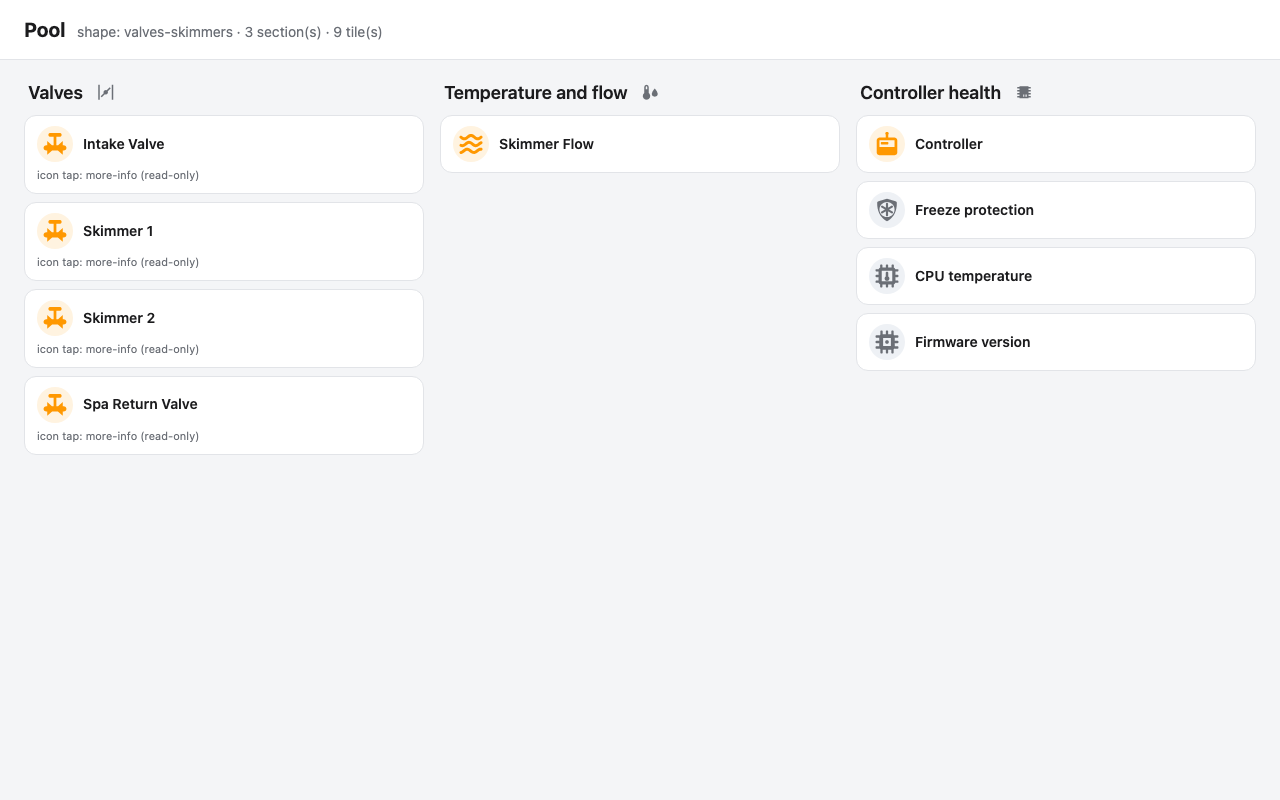
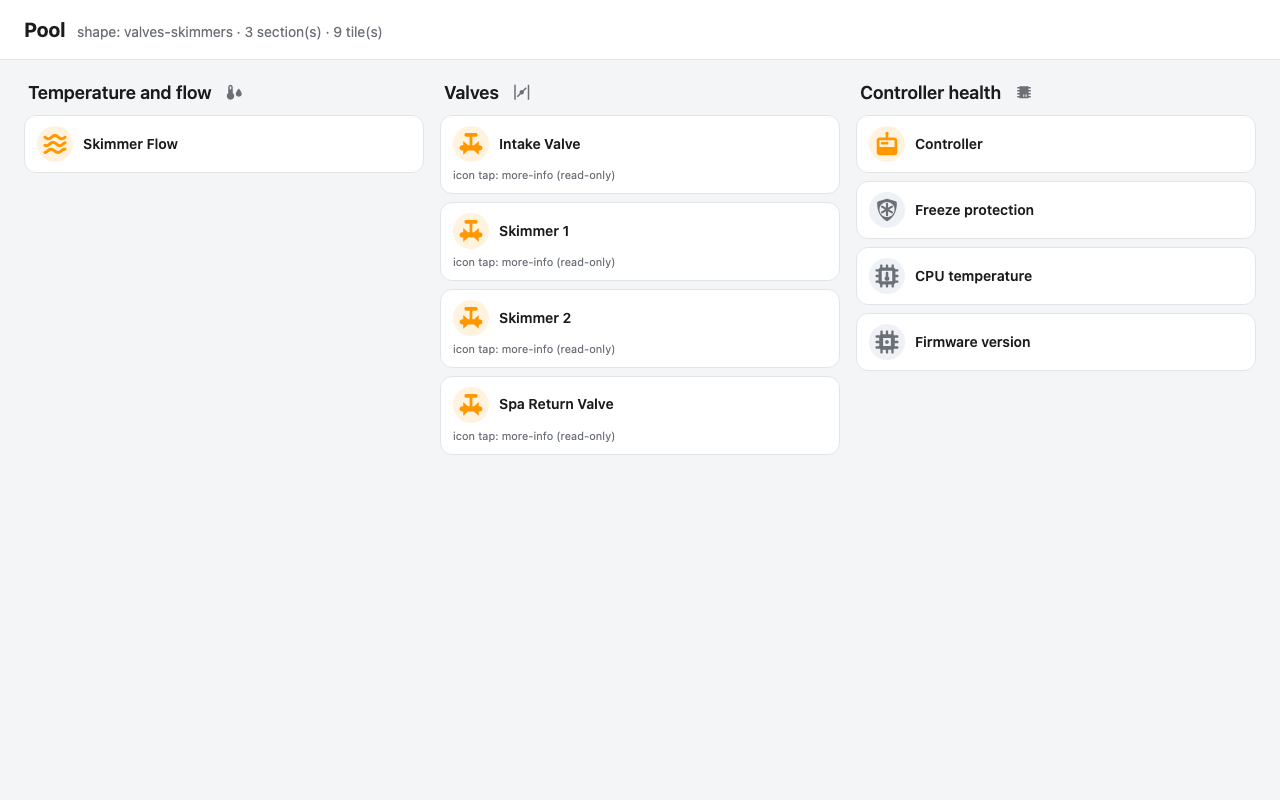
Layout: the pool's lights under the pool pump, water readings right of the pool
- poolLights(): the lights bound to the picture (pool, spa, falls) move out of
  the lights section and sit under the pool pump, full width, with their colour
  bars; only when a pool pump with a speed slider is there to sit under, so a
  lighting-only panel keeps all its lights (test).
- DEFAULT_ORDER puts "Temperature and flow" second, right of the pool;
  controls: core keeps the 0.2.1 order and layout (tests, snapshots unchanged).
- Docs, changelog, dashboard images.

diff --git a/custom_components/controlfreak/frontend/controlfreak-strategy.js b/custom_components/controlfreak/frontend/controlfreak-strategy.js
@@ -15,7 +15,7 @@
  *         picture_shape: kidney        # the overview's outline (default freeform)
  *         picture_style: depth         # caustic (default), blueprint, depth, neon, poster
  *         picture_deck: pavers         # the surround: concrete (default), pavers, travertine, wood, stone
- *         controls: core               # Home Assistant's own tile features instead of Control Freak's
+ *         controls: core               # Home Assistant's own tile features and the 0.2.1 layout
  *
  * Core cards are generated (heading, tile, markdown), plus the integration's
  * own picture card (custom:controlfreak-picture, served next to this file) at
@@ -45,6 +45,8 @@ export const EQUIPMENT_TYPES = [
   "controller",
   "other",
 ];
+/** The default layout: the water readings right of the pool. `controls: core` keeps the 0.2.1 order. */
+export const DEFAULT_ORDER = ["pumps", "sensors", "heating", "lights", "valves", "controller", "other"];
 
 export const DEFAULT_TITLES = {
   pumps: "Pumps",
@@ -315,10 +317,16 @@ function pumpCards(hass, items, options = {}) {
       features.push({ type: "fan-preset-modes", style: "icons" });
     }
     const group = [tile(pump.entity_id, features), ...paired.get(pump.entity_id).map((m) => tile(m.entity_id))];
-    // The pool's own pump goes first, full width: its speed sits right under the picture.
+    // The pool's own pump goes first, full width: its speed sits right under the
+    // picture, and the pool's lights (their colour bars) right under that.
     if (!core && !poolPlaced && features.length && sceneFor(shortName(hass, pump.entity_id)) === "pool") {
       group[0].grid_options = { columns: "full" };
-      cards.unshift(...group);
+      const lights = poolLights(hass, options).map((id) => {
+        const t = lightTile(hass, id, options);
+        t.grid_options = { columns: "full" };
+        return t;
+      });
+      cards.unshift(...group, ...lights);
       poolPlaced = true;
     } else {
       cards.push(...group);
@@ -328,23 +336,47 @@ function pumpCards(hass, items, options = {}) {
   return cards;
 }
 
+function lightTile(hass, entityId, options = {}) {
+  if (domainOf(entityId) !== "light" || !supports(hass, entityId, LIGHT_EFFECT)) {
+    return tile(entityId, domainOf(entityId) === "switch" ? [{ type: "toggle" }] : []);
+  }
+  if (coreControls(options)) return tile(entityId, [{ type: "light-effect" }]);
+  // The colours as a bar of swatches, the shows as a dropdown; the core
+  // dropdown only when the light's effects are not known yet.
+  const { colors, shows } = splitEffects(hass.states[entityId]?.attributes?.effect_list);
+  const features = [];
+  if (colors.length) features.push({ type: LIGHT_COLORS_FEATURE });
+  if (shows.length) features.push({ type: LIGHT_SHOWS_FEATURE });
+  return tile(entityId, features.length ? features : [{ type: "light-effect" }]);
+}
+
+/**
+ * The lights that light the picture (pool, spa, falls), in that order. With
+ * the default controls they sit under the pool's pump in the pumps section,
+ * their colour bars right under the picture, and leave the lights section.
+ */
+export function poolLights(hass, options = {}) {
+  if (coreControls(options)) return [];
+  const pumps = groupEntities(findEntities(hass, options)).pumps ?? [];
+  const { pumpFor, lightFor } = bindPictures(hass, pumps, options);
+  // Only when there is a pool pump with a speed slider for them to sit under;
+  // a lighting-only panel keeps its lights in the lights section.
+  if (!pumpFor.pool || !supports(hass, pumpFor.pool.entity_id, FAN_SET_SPEED)) return [];
+  const ids = [];
+  for (const scene of ["pool", "spa", "falls", "deck", "bub"]) {
+    const light = lightFor[scene];
+    if (light && !ids.includes(light.entity_id)) ids.push(light.entity_id);
+  }
+  return ids;
+}
+
 function lightCards(hass, items, options = {}) {
+  const moved = new Set(poolLights(hass, options));
   return items
     .map((i) => i.entry)
+    .filter((e) => !moved.has(e.entity_id))
     .sort(byName(hass))
-    .map((e) => {
-      if (domainOf(e.entity_id) !== "light" || !supports(hass, e.entity_id, LIGHT_EFFECT)) {
-        return tile(e.entity_id, domainOf(e.entity_id) === "switch" ? [{ type: "toggle" }] : []);
-      }
-      if (coreControls(options)) return tile(e.entity_id, [{ type: "light-effect" }]);
-      // The colours as a bar of swatches, the shows as a dropdown; the core
-      // dropdown only when the light's effects are not known yet.
-      const { colors, shows } = splitEffects(hass.states[e.entity_id]?.attributes?.effect_list);
-      const features = [];
-      if (colors.length) features.push({ type: LIGHT_COLORS_FEATURE });
-      if (shows.length) features.push({ type: LIGHT_SHOWS_FEATURE });
-      return tile(e.entity_id, features.length ? features : [{ type: "light-effect" }]);
-    });
+    .map((e) => lightTile(hass, e.entity_id, options));
 }
 
 function valveCards(hass, items) {
@@ -453,7 +485,7 @@ export function buildSection(hass, type, options = {}) {
 export function sectionOrder(options = {}) {
   const hide = new Set(options.hide ?? []);
   const order = [...(options.order ?? [])];
-  for (const type of EQUIPMENT_TYPES) if (!order.includes(type)) order.push(type);
+  for (const type of coreControls(options) ? EQUIPMENT_TYPES : DEFAULT_ORDER) if (!order.includes(type)) order.push(type);
   return order.filter((type, i) => !hide.has(type) && order.indexOf(type) === i && CARD_BUILDERS[type]);
 }
 

diff --git a/CHANGELOG.md b/CHANGELOG.md
@@ -5,7 +5,9 @@
 - **Pool controls as tile features.** The pump tiles carry `custom:controlfreak-pump-speed`,
   a slider over the pump's real range (40–100 on a typical variable-speed pump) with an Off
   button; the pool's own pump sits first in the section, full width, right under the
-  picture. Colour lights carry `custom:controlfreak-light-colors` (a bar of swatches) and
+  picture, with the pool's lights (their colour bars) right under it; the water readings
+  are the next section, right of the pool. Colour lights carry
+  `custom:controlfreak-light-colors` (a bar of swatches) and
   `custom:controlfreak-light-shows` (a dropdown of the shows) in place of one long effect
   dropdown. `controls: core` restores Home Assistant's `fan-speed` and `light-effect`.
   The features live in `controlfreak-features.js`, loaded beside the strategy.

diff --git a/docs/controlfreak.md b/docs/controlfreak.md
@@ -327,6 +327,9 @@ The pump and light tiles carry Control Freak's own features, built for a pool pa
   range, 40–100 % on a typical variable-speed pump, with an Off button. The percentage is
   the speed the pump runs at, not a fraction of its range, so 40 % reads 40 on the panel
   too. The pool's own pump sits first in the section, full width, right under the picture.
+- The lights that light the picture (pool, spa, waterfall) sit under the pool pump with
+  their colour bars, and the water temperatures and flow are the next section, right of
+  the pool. `controls: core` keeps the 0.2.1 layout.
 - **Light colours** (`custom:controlfreak-light-colors`): a bar of swatches, one per
   colour the light offers (Blue, Green, Red, White, Magenta on a Pentair set); the current
   one is marked.
